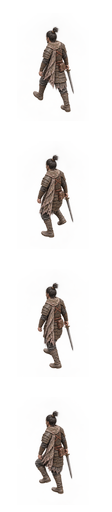
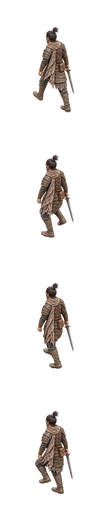
fix(assets): 移除主角左后行走灰底并补透明边缘检查
- 保留旧源稿及生成提示，修正版沿用原帧格、比例和锚点

- 重建图集、动作清单和原尺寸游戏渲染对照检查通过；不改战斗规则

diff --git a/docs/素材设计/92-主角左后行走透明背景修复.md b/docs/素材设计/92-主角左后行走透明背景修复.md
@@ -1,0 +1,15 @@
+# 主角左后行走透明背景修复
+
+2026-11-18，真实战斗素材原尺寸对照检查发现左后行走带灰色矩形雾底。其余方向不能据此推断有同样问题。
+
+## 原因与修改
+
+旧源稿hero_walk_nw_trial_v2/candidate.png虽含alpha通道，但保留可见背景；构建仅检查有alpha，透明边缘断言未覆盖nw，因此被正常打包进入hero_walk_nw_v2.png。
+
+使用内置image_gen执行背景移除，提示词保存在alpha_prompt_v3.json，新源稿candidate_alpha_v3.png保留2048×768四列布局、0.14缩放、源锚点(275,710)、运行帧112×128及锚点(56,112)。未覆盖原候选，未用色键破坏盔甲。构建事实源与生成清单同步，并将nw纳入逐帧透明边缘断言。
+
+## 复核
+
+运行modular_camp/launch.py --build-assets成功，主角八方向动作目录检查通过，理论RGBA8仍7616KiB。camp_combat/launch.py --review --capture生成12张实际渲染对照页，hero_phase_0左后行走背景已与页面一致，无原先矩形灰底。源稿透明区存在RGB颜色不等于可见背景，以alpha和实际绘制共同判断。
+
+影响范围为隔离动作样板及真实战斗样板共用的左后行走图集，不改攻击、碰撞或数值。此检查能拦截帧边缘脏像素，内部雾底仍需原尺寸视觉审查。临时对照截图审查后删除，复核命令可重新生成。

diff --git a/art_source/actors/hero_walk_nw_trial_v2/README.md b/art_source/actors/hero_walk_nw_trial_v2/README.md
@@ -5,3 +5,5 @@
 candidate.png为2048×768，四列512×768；构建以0.14统一缩放、源锚点(275,710)打包。站姿1024×1536，以0.066缩放、源锚点(510,1460)。运行帧112×128，锚点(56,112)。构建事实源位于../hero_walk_pilot_v3/build.json。
 
 仅进入隔离营地，Y试走。头部已朝左，足尖与背向一致；步态、衣物细节变化仍待精修。pose_guide.png沿用第一版的nw骨架；不是逐帧镜像修复，不进入正式角色外观库。
+
+透明修正版：`candidate_alpha_v3.png`由内置image_gen基于candidate.png移除灰底，保留2048×768布局及既有标定；提示词见alpha_prompt_v3.json。构建已改用修正版，并对左后四帧增加透明边缘断言。旧稿保留溯源，不进入运行加载。
